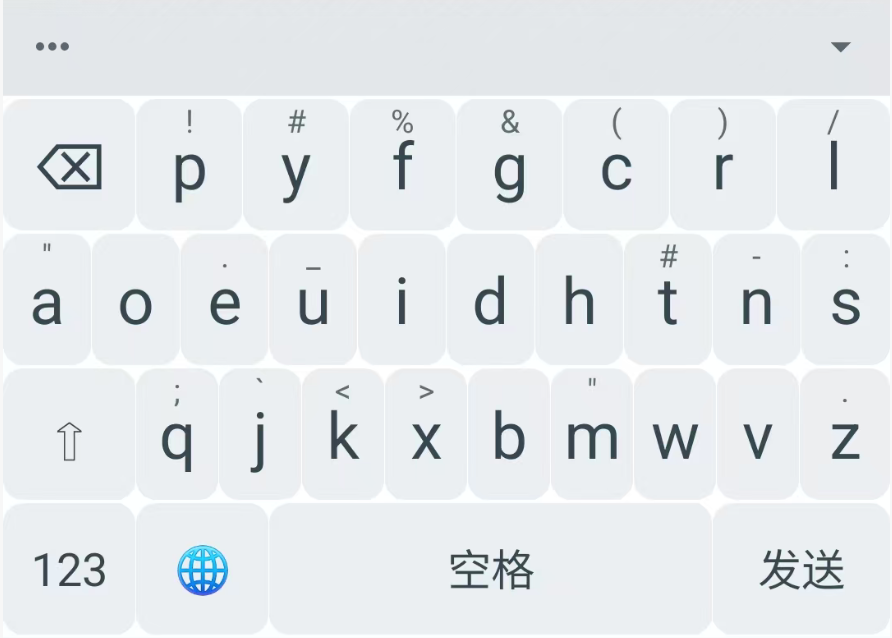
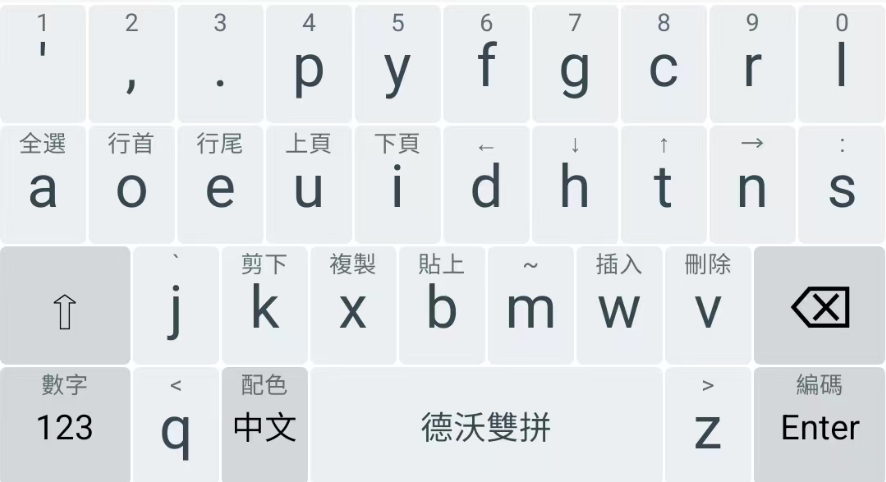
docs: update readme explanation and resize images

diff --git a/README.md b/README.md
@@ -23,12 +23,14 @@ patch:
 ## Trime 安卓配置
 新增了 `trime.yaml` 文件，修改了 Trime 输入法在安卓上的表现。
 
+手机端之所以需要调整，是因为 q 和 z 的位置不符合正常布局。
+
 1. 输入方案参考：[double-pinyin-dvorak](https://github.com/igaryhe/double-pinyin-dvorak)
 2. 布局参考：[落格输入法-经典版](https://apps.apple.com/us/app/%E8%90%BD%E6%A0%BC%E8%BE%93%E5%85%A5%E6%B3%95-%E7%BB%8F%E5%85%B8%E7%89%88/id1140465593)
 
 ### 更改前后对比
 更改前：
-![layout_trime_before](./layout_trime_before.png)
+<img src="./layout_trime_before.png" width="50%" />
 
 更改后：
-![layout_trime](./layout_trime.png)
+<img src="./layout_trime.png" width="50%" />
